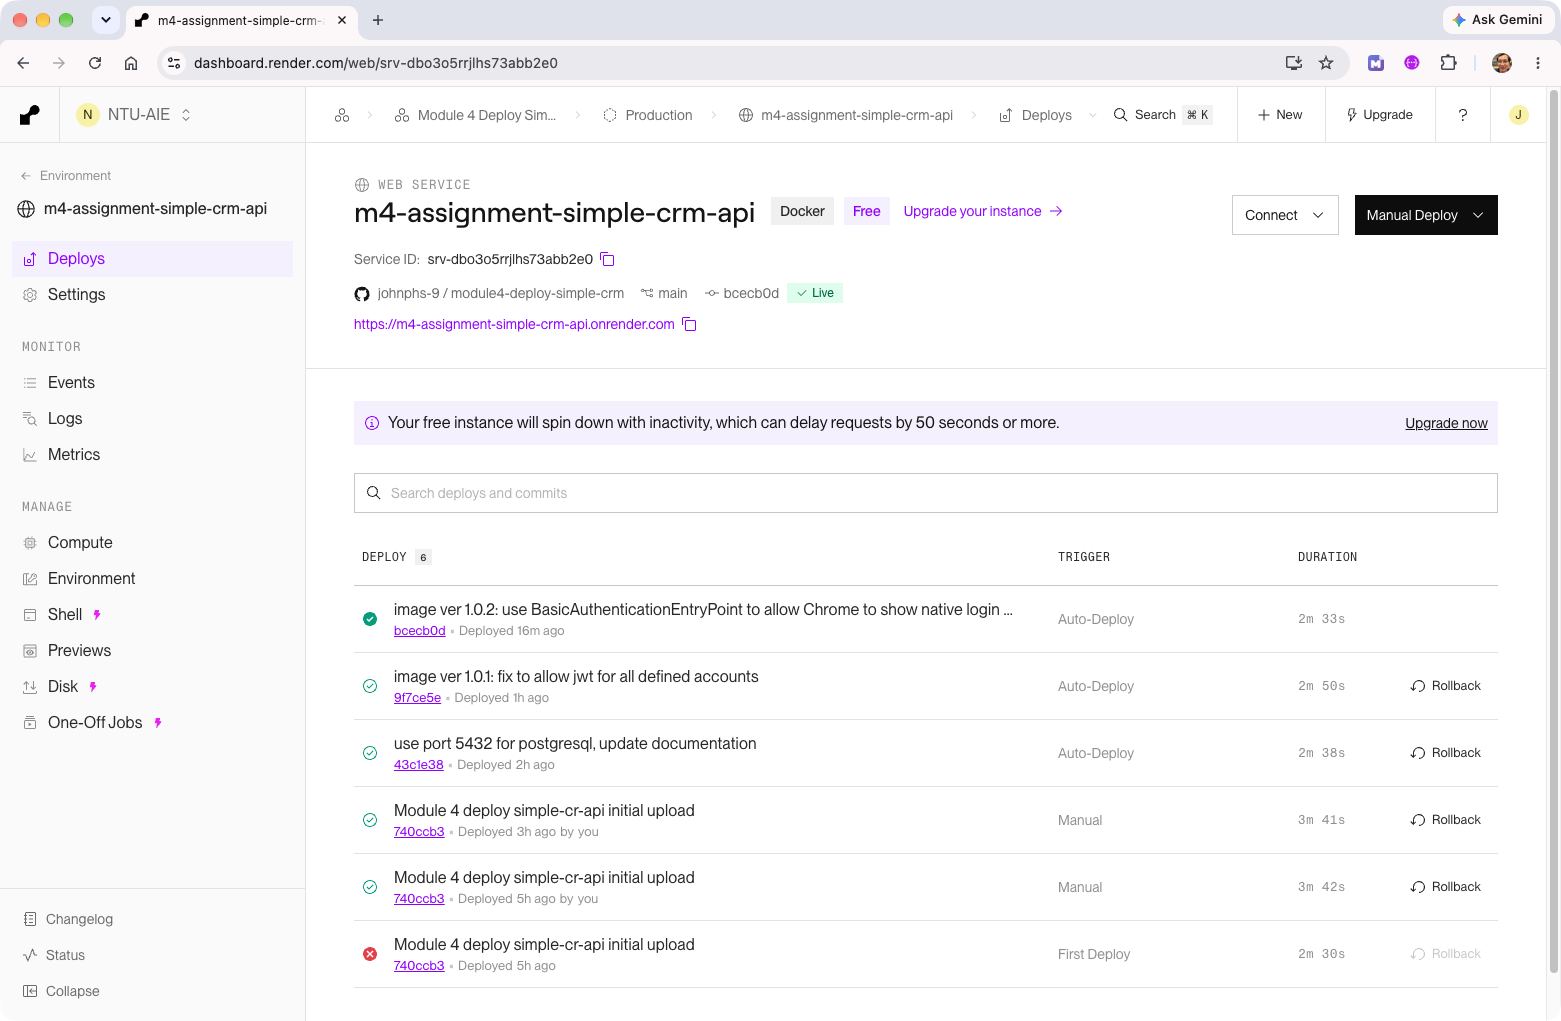
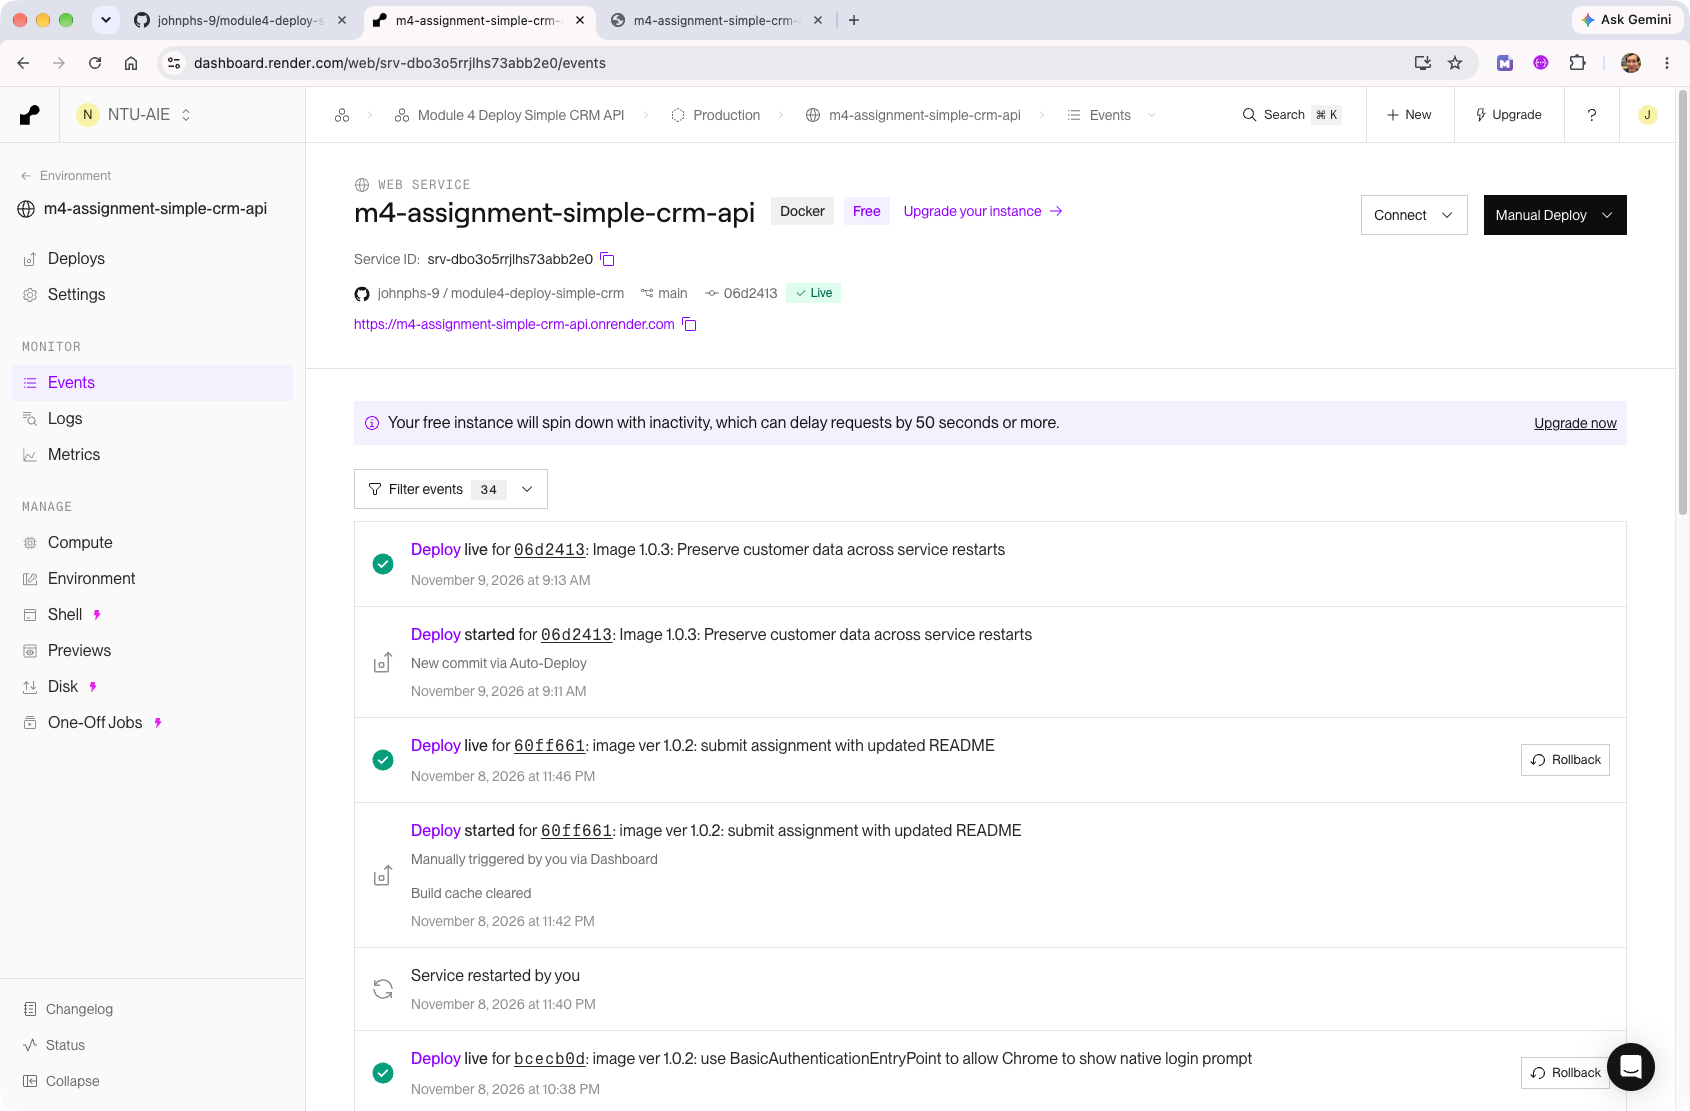
Image 1.0.3: Update screenshots; Preserve customer data across service restarts

diff --git a/README.md b/README.md
@@ -127,7 +127,7 @@ Validation (enforced server-side, returns 400):
 
 ![Render dashboard](docs/screenshots/Render%20Web%20Service.png)
 
-- logs showing api web service and db started successfully, ready to serve requests.
+- logs showing simple-crm-api serving requests and performing CRUD operations on the database.
 
 ![Render service logs](docs/screenshots/Render%20webservice%20log.png)
 
@@ -142,8 +142,8 @@ Validation (enforced server-side, returns 400):
 
 ### Live API 
 
-- `GET /customers`
-- browser supplies the collected credentials in the Basic authentication header
+- Endpoint: [GET /customers](https://m4-assignment-simple-crm-api.onrender.com/customers)
+- browser supplies the collected credentials in an `Authorization: Basic` header on subsequent requests.
 
 ![Live API](docs/screenshots/authenticated.png)
 
